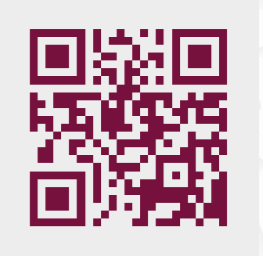
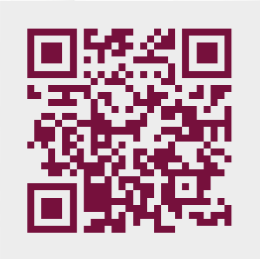
98

diff --git a/index.html b/index.html
@@ -181,9 +181,9 @@
                     <img src="images/2small.jpg"/>
                 </div>
                 <div class="a6-content">
-                    <img src="images/saoma.png"/>
-                    <!--<img src="http://qrickit.com/api/qr?d=http://www.taobao.com&txtcolor=442EFF&fgdcolor=76103C-->
-<!--&bgdcolor=ededed&qrsize=300&t=p&e=m">-->
+                    <!--<img src="images/saoma.png"/>-->
+                    <img src="http://qrickit.com/api/qr?d=https://liukaijiedegit.github.io/myResume/&txtcolor=442EFF&fgdcolor=76103C
+&bgdcolor=ededed&qrsize=300&t=p&e=m">
                 </div>
                 <p>感谢您抽出宝贵的时间浏览</p>
             </div>
